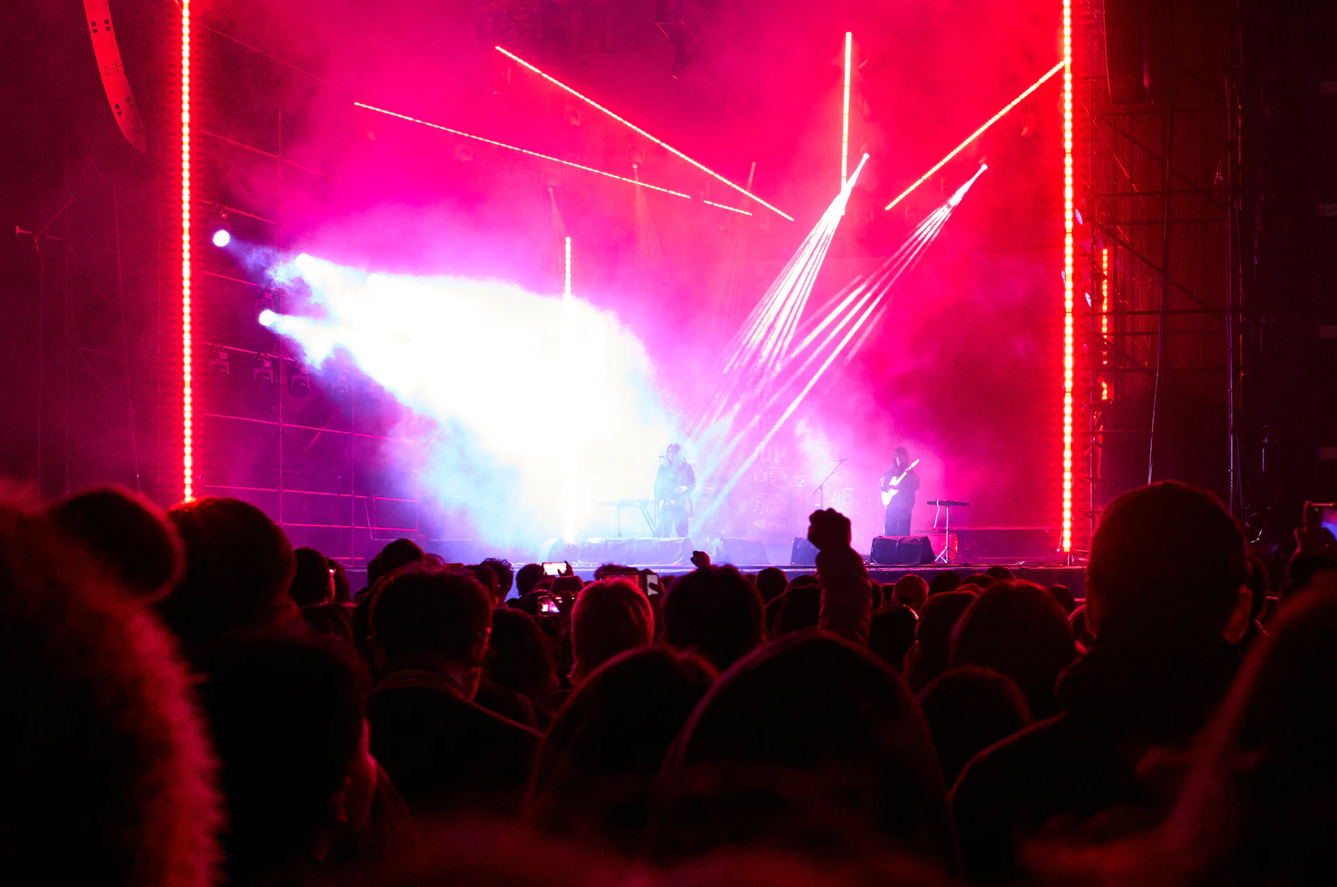
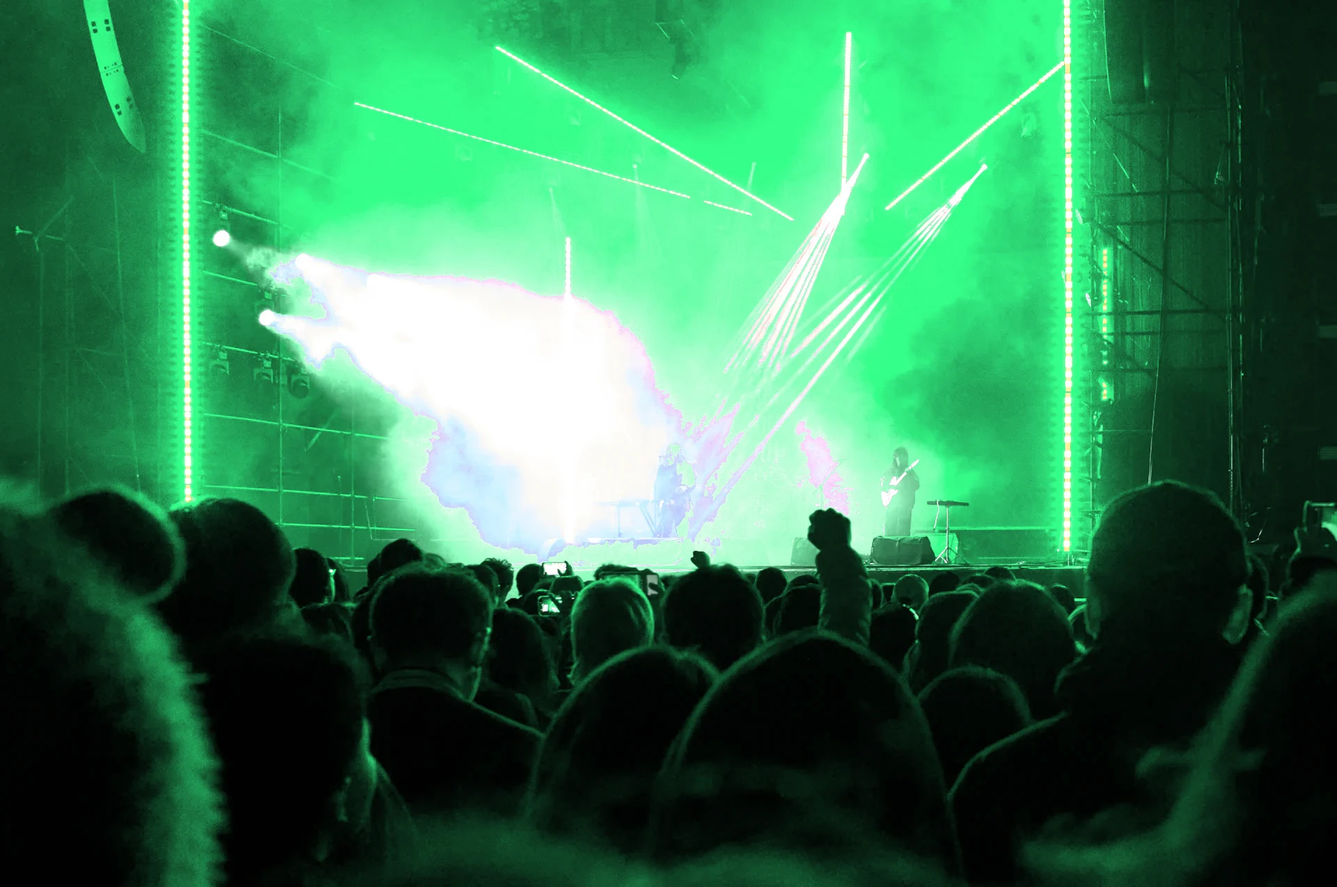
theme: recolor red/pink accents, glow and stage photo to Showstopper green (#7cffb2)

diff --git a/theme.css b/theme.css
@@ -1,4 +1,4 @@
-:root{--bg:#050307;--card:#0d0910cc;--line:#ffffff1f;--txt:#fff;--mut:#e0d4e6;--neon:#ff3b7a;--neon2:#ffb3d1;--fade:0;--rise:0px;--par:0px}
+:root{--bg:#050307;--card:#0d0910cc;--line:#ffffff1f;--txt:#fff;--mut:#e0d4e6;--neon:#7cffb2;--neon2:#c4ffdc;--fade:0;--rise:0px;--par:0px}
 html{background:#050307}body{background:transparent}
 .fv{position:fixed;inset:0;z-index:-1;overflow:hidden;background:#050307}
 .fv-photo{position:absolute;inset:-4% 0 -20%;background:url(stage.webp) center 30%/cover no-repeat;transform:translateY(var(--par)) scale(1.04);filter:saturate(1.05)}
@@ -9,29 +9,29 @@ html{background:#050307}body{background:transparent}
 .fv-crowd,.fv-dark{z-index:2}.fv-dark{z-index:3}
 .nav{background:#050307b3;backdrop-filter:blur(10px);border-color:#ffffff14}.banner{background:#0b060ecc;backdrop-filter:blur(6px)}
 .logo span{color:#7CFFB2;text-shadow:0 0 14px #2bff8a99}
-.hero{text-align:center;padding:80px 0 240px;background:radial-gradient(ellipse 45% 40% at 50% 42%,#0008,transparent 70%)}.hero h1{font-size:64px;text-shadow:0 4px 30px #000,0 0 2px #000}.hero h1 em{color:#fff;text-shadow:0 0 30px #ff3b7a,0 4px 20px #000}
+.hero{text-align:center;padding:80px 0 240px;background:radial-gradient(ellipse 45% 40% at 50% 42%,#0008,transparent 70%)}.hero h1{font-size:64px;text-shadow:0 4px 30px #000,0 0 2px #000}.hero h1 em{color:#fff;text-shadow:0 0 30px #7cffb2,0 4px 20px #000}
 .hero p{margin:0 auto;color:#fff;font-size:20px;text-shadow:0 2px 12px #000,0 0 3px #000}.search{margin:24px auto 0}.search input{background:#0b0710cc;backdrop-filter:blur(8px)}
 h1,h2{text-shadow:0 3px 14px #000}
 .card,.panel,.row{background:var(--card);backdrop-filter:blur(12px);border-color:var(--line)}
 .chip{background:#0d0910cc;backdrop-filter:blur(8px)}.mut{color:var(--mut)}
-.player{border:12px solid #0a0a0c;border-radius:6px;box-shadow:0 0 0 1px #ffffff22,0 0 90px #ff3b7a55,0 40px 60px #000}
+.player{border:12px solid #0a0a0c;border-radius:6px;box-shadow:0 0 0 1px #ffffff22,0 0 90px #7cffb255,0 40px 60px #000}
 .player+p{background:#0d0910cc;backdrop-filter:blur(8px);padding:10px 14px;border-radius:10px}
 .ahead,.t-floor-view main>h1{text-shadow:0 3px 14px #000}
-.btn{background:linear-gradient(#ff5a90,#d81e5a)}
+.btn{background:linear-gradient(#a6ffcb,#3fd98a);color:#04140a;text-shadow:none}
 footer{background:#050307;position:relative}.photo-credit a{color:var(--neon2);text-decoration:underline}
 body::before{display:none}
 @media(max-width:760px){.hero{padding:56px 0 200px}.hero h1{font-size:42px}}
 @media(prefers-reduced-motion:reduce){.fv-photo,.fv-crowd{transform:none}}
 
 .hero.mv{text-align:left;padding:48px 0 60px;background:none}
-.eyebrow{font-size:18px;font-weight:800;letter-spacing:3px;text-transform:uppercase;color:#ffb3d1;text-shadow:0 2px 10px #000;margin:0 0 14px}
+.eyebrow{font-size:18px;font-weight:800;letter-spacing:3px;text-transform:uppercase;color:#c4ffdc;text-shadow:0 2px 10px #000;margin:0 0 14px}
 .mv-card{display:grid;grid-template-columns:1.6fr 1fr;gap:28px;align-items:center}
 .mv-card .player{position:relative}.mv-card .player .thumb{aspect-ratio:16/9;max-height:none}
-.mv-badge{position:absolute;top:12px;left:12px;z-index:3;background:linear-gradient(#ff5a90,#d81e5a);color:#fff;font-weight:900;padding:8px 14px;border-radius:8px;font-size:16px;box-shadow:0 0 20px #ff3b7a99}
+.mv-badge{position:absolute;top:12px;left:12px;z-index:3;background:linear-gradient(#a6ffcb,#3fd98a);color:#04140a;font-weight:900;padding:8px 14px;border-radius:8px;font-size:16px;box-shadow:0 0 20px #7cffb299}
 .mv-info{background:#0d0910cc;backdrop-filter:blur(12px);padding:24px;border-radius:14px;border:1px solid #ffffff1f}
 .mv-info h1{font-size:44px;margin:0 0 6px}.mv-info p{margin:6px 0;font-size:17px}.mv-song{font-size:19px!important}.mv-info .btn{display:inline-block;margin-top:10px}
-.mv-card:hover .player{box-shadow:0 0 0 2px #ff3b7a,0 0 90px #ff3b7a88}
-.az{display:grid;gap:12px}.az-g{display:flex;gap:16px;align-items:center}.az-l{font-size:30px;font-weight:900;width:44px;color:#ff3b7a;text-shadow:0 0 12px #ff3b7a88}
+.mv-card:hover .player{box-shadow:0 0 0 2px #7cffb2,0 0 90px #7cffb288}
+.az{display:grid;gap:12px}.az-g{display:flex;gap:16px;align-items:center}.az-l{font-size:30px;font-weight:900;width:44px;color:#7cffb2;text-shadow:0 0 12px #7cffb288}
 .trend{color:#7dffb0;font-weight:800}
 @media(max-width:760px){.mv-card{grid-template-columns:1fr}.mv-info h1{font-size:34px}.hero.mv{padding:28px 0 32px}}
 .hero.mv .eyebrow{margin:0 0 14px;font-size:22px;text-align:left}
@@ -40,28 +40,28 @@ body::before{display:none}
 @media(max-width:760px){.mv-badge{font-size:14px;padding:5px 10px;top:8px;left:8px}.hero.mv .eyebrow{font-size:18px}}
 /* ---- social layer ---- */
 .nav nav{display:flex;align-items:center;gap:4px}#acct{display:flex;align-items:center;gap:8px;margin-left:16px}
-.btn.sm{padding:8px 14px;font-size:16px}.btn.ghost{color:#fff}
+.btn.sm{padding:8px 14px;font-size:16px}.btn.ghost{color:#fff!important;background:transparent}
 .ib{position:relative;background:#ffffff12;border:1px solid #ffffff22;border-radius:999px;width:42px;height:42px;display:inline-flex;align-items:center;justify-content:center;font-size:18px;cursor:pointer;margin:0!important;color:#fff}
-.avb{padding:0;background:none;border:0}.cnt{position:absolute;top:-6px;right:-6px;background:#ff3b7a;color:#fff;font-style:normal;font-size:13px;font-weight:800;min-width:20px;height:20px;border-radius:10px;display:flex;align-items:center;justify-content:center;padding:0 5px;box-shadow:0 0 10px #ff3b7a}
+.avb{padding:0;background:none;border:0}.cnt{position:absolute;top:-6px;right:-6px;background:#7cffb2;color:#04140a;font-style:normal;font-size:13px;font-weight:800;min-width:20px;height:20px;border-radius:10px;display:flex;align-items:center;justify-content:center;padding:0 5px;box-shadow:0 0 10px #7cffb2}
 .cnt.in{position:static;display:inline-flex}
 .av{display:inline-flex;align-items:center;justify-content:center;border-radius:50%;color:#fff;font-weight:900;flex:none;box-shadow:0 0 0 2px #ffffff30}
 .drop{position:fixed;top:66px;right:20px;width:340px;max-width:calc(100vw - 24px);max-height:70vh;overflow:auto;z-index:50;background:#120c16f2;backdrop-filter:blur(14px);border:1px solid #ffffff26;border-radius:14px;padding:14px;box-shadow:0 20px 50px #000}
 .drop h3{margin:0 0 8px}.ni{display:block;width:100%;text-align:left;padding:10px 12px;border-radius:10px;color:#fff;background:none;border:0;font-size:16px;cursor:pointer}.ni:hover{background:#ffffff12}.ni span{display:block;font-size:15px}
-.ni.unread{background:#ff3b7a1f;border-left:3px solid #ff3b7a}.dm{display:flex;gap:12px;align-items:center;padding:6px 6px 12px;border-bottom:1px solid #ffffff1a;margin-bottom:6px}
+.ni.unread{background:#7cffb21f;border-left:3px solid #7cffb2}.dm{display:flex;gap:12px;align-items:center;padding:6px 6px 12px;border-bottom:1px solid #ffffff1a;margin-bottom:6px}
 .modal{position:fixed;inset:0;z-index:60;background:#000b;backdrop-filter:blur(4px);display:flex;align-items:center;justify-content:center;padding:16px}
-.mbox{position:relative;width:440px;max-width:100%;max-height:90vh;overflow:auto;background:#130c17;border:1px solid #ff3b7a55;border-radius:16px;padding:26px;box-shadow:0 0 60px #ff3b7a33}
+.mbox{position:relative;width:440px;max-width:100%;max-height:90vh;overflow:auto;background:#130c17;border:1px solid #7cffb255;border-radius:16px;padding:26px;box-shadow:0 0 60px #7cffb233}
 .mbox h2{margin:0 0 10px}.mx{position:absolute;top:10px;right:14px;background:none;border:0;color:#fff;font-size:28px;cursor:pointer}
 .mbox label{display:block;margin:10px 0;font-weight:700}.mbox label input{display:block;width:100%;margin-top:6px;border-radius:10px}.mbox .btn{margin-top:8px}
 .demo-note{background:#ffb84d1f;border:1px solid #ffb84d55;color:#ffe1ad;padding:10px 12px;border-radius:10px;font-size:16px}.err{color:#ff8fa8;min-height:1em;margin:4px 0}
 .mrow{display:flex;gap:8px;align-items:center;flex-wrap:wrap;margin:10px 0}.mrow input{flex:1;min-width:160px;border-radius:10px}
-.lrow{display:flex!important;gap:10px;align-items:center;font-weight:600!important;padding:8px 10px;border-radius:10px;background:#ffffff0a}.lrow input{width:20px;height:20px;accent-color:#ff3b7a}
-.savebtn{position:absolute;top:8px;right:8px;z-index:4;background:#0a060ddd;color:#fff;border:1px solid #ffffff40;border-radius:999px;padding:6px 12px;font-weight:800;font-size:15px;cursor:pointer}.savebtn:hover{background:#ff3b7a}
+.lrow{display:flex!important;gap:10px;align-items:center;font-weight:600!important;padding:8px 10px;border-radius:10px;background:#ffffff0a}.lrow input{width:20px;height:20px;accent-color:#7cffb2}
+.savebtn{position:absolute;top:8px;right:8px;z-index:4;background:#0a060ddd;color:#fff;border:1px solid #ffffff40;border-radius:999px;padding:6px 12px;font-weight:800;font-size:15px;cursor:pointer}.savebtn:hover{background:#7cffb2;color:#04140a}
 .player .savebtn{top:14px;right:14px;font-size:16px;padding:8px 14px}
-.toast{position:fixed;bottom:24px;left:50%;transform:translateX(-50%);z-index:70;background:#1a0f1f;border:1px solid #ff3b7a;padding:12px 18px;border-radius:12px;box-shadow:0 10px 30px #000}
+.toast{position:fixed;bottom:24px;left:50%;transform:translateX(-50%);z-index:70;background:#1a0f1f;border:1px solid #7cffb2;padding:12px 18px;border-radius:12px;box-shadow:0 10px 30px #000}
 .comments{margin-top:32px}.cform{display:flex;gap:10px;align-items:flex-start;margin-bottom:14px}.cform textarea,#bf textarea{flex:1;width:100%;min-height:52px;background:#0d0910cc;border:1px solid #ffffff26;color:#fff;border-radius:12px;padding:12px;font:inherit}
 .clist{display:grid;gap:12px}.cm{display:flex;gap:12px;padding:14px;background:#0d0910cc;backdrop-filter:blur(10px);border:1px solid #ffffff1a;border-radius:14px}
-.cm .cm{margin-top:12px;background:#ffffff08;border-left:3px solid #ff3b7a66}.cb{flex:1;min-width:0}.cb p{margin:4px 0 6px}
-.ca button{background:none;border:0;color:#e0d4e6;font-size:15px;font-weight:700;cursor:pointer;margin-right:14px;padding:4px 0}.ca button.on{color:#ff3b7a}.ca button:hover{color:#fff}
+.cm .cm{margin-top:12px;background:#ffffff08;border-left:3px solid #7cffb266}.cb{flex:1;min-width:0}.cb p{margin:4px 0 6px}
+.ca button{background:none;border:0;color:#e0d4e6;font-size:15px;font-weight:700;cursor:pointer;margin-right:14px;padding:4px 0}.ca button.on{color:#7cffb2}.ca button:hover{color:#fff}
 .ad{display:flex;align-items:center;gap:18px;margin:22px 0;padding:18px 20px;border-radius:14px;background:linear-gradient(100deg,#2a1a08ee,#1a0d18ee);border:1px dashed #ffb84d88;position:relative}
 .ad p{margin:4px 0 0;color:#f2e2cf}.ad b{font-size:19px}.ad>div{flex:1}.ad .btn{background:linear-gradient(#ffc04d,#e8871a);color:#1b0f02;white-space:nowrap}
 .spons{position:absolute;top:-11px;left:16px;background:#ffb84d;color:#1b0f02;font-size:13px;font-weight:900;letter-spacing:1px;text-transform:uppercase;padding:2px 8px;border-radius:6px}
@@ -71,9 +71,9 @@ body::before{display:none}
 .lc{display:flex;flex-direction:column;gap:8px;margin-top:10px}.mini{display:flex;gap:10px;align-items:center}.mini span{width:56px;height:32px;border-radius:6px;flex:none}.mini small{margin-left:auto;font-size:15px}
 .bio{max-width:640px;margin:6px 0 8px}#msgb{margin-top:8px}
 .inbox{display:grid;grid-template-columns:320px 1fr;gap:16px;min-height:480px}.convs{display:flex;flex-direction:column;gap:8px}
-.conv{display:flex;gap:12px;align-items:center;padding:12px;border-radius:12px;background:#0d0910cc;border:1px solid #ffffff1a}.conv.on{border-color:#ff3b7a}.conv div>span{display:block;font-size:15px}
+.conv{display:flex;gap:12px;align-items:center;padding:12px;border-radius:12px;background:#0d0910cc;border:1px solid #ffffff1a}.conv.on{border-color:#7cffb2}.conv div>span{display:block;font-size:15px}
 .thread{display:flex;flex-direction:column}.th{display:flex;gap:10px;align-items:center;padding-bottom:10px;border-bottom:1px solid #ffffff1a}
-.msgs{flex:1;overflow:auto;display:flex;flex-direction:column;gap:10px;padding:14px 0;max-height:420px}.bub{max-width:75%;background:#ffffff14;padding:10px 14px;border-radius:14px 14px 14px 4px}.bub.me{align-self:flex-end;background:#ff3b7a;border-radius:14px 14px 4px 14px}.bub small{display:block;opacity:.75;font-size:13px;margin-top:4px}
+.msgs{flex:1;overflow:auto;display:flex;flex-direction:column;gap:10px;padding:14px 0;max-height:420px}.bub{max-width:75%;background:#ffffff14;padding:10px 14px;border-radius:14px 14px 14px 4px}.bub.me{align-self:flex-end;background:#7cffb2;color:#04140a;border-radius:14px 14px 4px 14px}.bub small{display:block;opacity:.75;font-size:13px;margin-top:4px}
 @media(max-width:760px){.nav{flex-wrap:wrap;gap:8px}.nav nav a{margin-left:12px}#acct{margin-left:8px}.stats{grid-template-columns:1fr 1fr}.two2,.inbox{grid-template-columns:1fr}.ad{flex-direction:column;align-items:flex-start}.lists2{grid-template-columns:1fr}.drop{right:12px}}
 .ahead>div:last-child{background:#0d0910cc;backdrop-filter:blur(12px);border:1px solid #ffffff1f;border-radius:16px;padding:18px 22px}
 .ahead .mut{color:#eee2f2}.panel h2{margin-top:0}.analytics{margin-top:0}
@@ -81,16 +81,16 @@ body::before{display:none}
 
 .embed-wrap{position:relative;aspect-ratio:16/9;width:100%;background:#000}.embed-wrap iframe{position:absolute;inset:0;width:100%;height:100%;border:0}
 .embed-wrap .badge.best{z-index:3;pointer-events:none}.player.live .savebtn{top:auto;bottom:14px}
-.srcl{color:#ffb3d1;text-decoration:underline;font-weight:700}.card .thumb{background-size:cover}
+.srcl{color:#c4ffdc;text-decoration:underline;font-weight:700}.card .thumb{background-size:cover}
 .clipbar{padding-right:110px!important;line-height:1.9}.badge.best.inl{position:static;display:inline-block;margin:0 6px 0 0;color:#fff}.clipbar .savebtn{top:50%;transform:translateY(-50%)}
 .vbreak{font-size:16px!important;color:#e0d4e6}.tv{border-bottom:1px dotted #ffffff80;cursor:help}
 /* ads v2 */
 .ad .btn{text-decoration:none}.ad-img{width:96px;height:72px;object-fit:cover;border-radius:10px;flex:none}.ad.compact{padding:12px 16px;margin:16px 0}.ad.compact b{font-size:17px}
 .ad.house{background:linear-gradient(100deg,#1d1208ee,#150b14ee)}.ad-show-tickets{margin-top:14px}
 .adv-hero{margin:28px 0 10px;padding:28px 30px;background:#0d0910d9;backdrop-filter:blur(12px);border:1px solid #ffffff1f;border-radius:18px}.adv-hero h1{font-size:52px;margin:0 0 10px}.lead{font-size:21px;max-width:860px}.small{font-size:15px}
-.adv-stats{display:grid;grid-template-columns:repeat(4,1fr);gap:12px;margin:22px 0 10px}.adv-stats div{background:#0d0910cc;border:1px solid #ffffff1f;border-radius:14px;padding:16px}.adv-stats b{display:block;font-size:30px;color:#ffb3d1}
+.adv-stats{display:grid;grid-template-columns:repeat(4,1fr);gap:12px;margin:22px 0 10px}.adv-stats div{background:#0d0910cc;border:1px solid #ffffff1f;border-radius:14px;padding:16px}.adv-stats b{display:block;font-size:30px;color:#c4ffdc}
 .slot-gal{display:grid;grid-template-columns:repeat(2,1fr);gap:18px}.slotc h3{margin:12px 0 4px}.slotc p{margin:4px 0}.price{color:#ffd28a;font-size:18px}
-.mock{background:#08050b;border:1px solid #ffffff1a;border-radius:12px;padding:12px;display:grid;gap:8px}.mk-bar{height:10px;width:40%;background:#ffffff22;border-radius:6px}.mk-player{height:90px;background:linear-gradient(135deg,#3a0f22,#0a0a0c);border-radius:8px}
+.mock{background:#08050b;border:1px solid #ffffff1a;border-radius:12px;padding:12px;display:grid;gap:8px}.mk-bar{height:10px;width:40%;background:#ffffff22;border-radius:6px}.mk-player{height:90px;background:linear-gradient(135deg,#0f3a24,#0a0a0c);border-radius:8px}
 .mk-chips{height:26px;background:repeating-linear-gradient(90deg,#ffffff1a 0 60px,transparent 60px 70px);border-radius:8px}.mk-grid{height:46px;background:repeating-linear-gradient(90deg,#ffffff12 0 23%,transparent 23% 25.6%);border-radius:8px}
 .mk-ad .ad{margin:10px 0 4px;transform-origin:left top}.mk-ad .ad b{font-size:16px}.mk-ad .ad p{font-size:14px}
 .rate{width:100%;border-collapse:collapse}.rate th,.rate td{text-align:left;padding:10px;border-bottom:1px solid #ffffff1a;vertical-align:top}.rate td:nth-child(2){white-space:nowrap;color:#ffd28a;font-weight:800}
@@ -104,7 +104,7 @@ body::before{display:none}
 .aav.big{width:120px!important;height:120px!important;font-size:52px!important}
 .achip{display:inline-flex;align-items:center;gap:8px;padding-left:5px}
 .alist{display:grid;grid-template-columns:repeat(auto-fill,minmax(320px,1fr));gap:12px;margin:16px 0}
-.arow{display:flex;gap:14px;align-items:center;padding:12px 14px;border-radius:14px;background:#0d0910cc;backdrop-filter:blur(10px);border:1px solid #ffffff1a}.arow:hover{border-color:#ff3b7a}.arow>div{flex:1;min-width:0}.arow span.mut{display:block;font-size:15px}
+.arow{display:flex;gap:14px;align-items:center;padding:12px 14px;border-radius:14px;background:#0d0910cc;backdrop-filter:blur(10px);border:1px solid #ffffff1a}.arow:hover{border-color:#7cffb2}.arow>div{flex:1;min-width:0}.arow span.mut{display:block;font-size:15px}
 .asearch input{width:100%;max-width:560px}.more{display:block;margin:10px auto 26px}
 .navsearch{display:inline-block;margin-right:14px}.navsearch input{width:190px;padding:8px 14px;border-radius:999px;background:#ffffff12;border:1px solid #ffffff26;color:#fff;font:inherit;font-size:15px}
 .tip{cursor:help;font-weight:400;letter-spacing:0;opacity:.85}.credit a{text-decoration:underline}

diff --git a/app.js b/app.js
@@ -2,7 +2,8 @@ const $=s=>document.querySelector(s),app=$("#app");
 const fmt=d=>d.toLocaleDateString("en-US",{month:"short",day:"numeric",year:"numeric"});
 const iso=d=>d.toISOString().slice(0,10);
 const follows=new Set(JSON.parse(localStorage.getItem("ssf")||"[]"));
-const grad=h=>`background:linear-gradient(135deg,hsl(${h} 90% 45%),hsl(${(h+60)%360} 80% 20%) 60%,#05050a),radial-gradient(circle at 70% 20%,#fff4,transparent 40%)`;
+const nh=h=>(h>=290||h<=20)?145:h; // red/pink hues -> Showstopper green
+const grad=h=>(h=nh(h),0)||`background:linear-gradient(135deg,hsl(${h} 90% 45%),hsl(${(h+60)%360} 80% 20%) 60%,#05050a),radial-gradient(circle at 70% 20%,#fff4,transparent 40%)`;
 const thumb=(c,best)=>`<div class="thumb" style="${c.thumb?`background:#000 url(${c.thumb}) center/cover`:grad(c.hue)}"><div class="play"></div>${best?'<span class="badge best">★ Best clip</span>':''}<span class="badge">${c.len}</span></div>`;
 const creditFull=c=>`<span class="src">via ${c.platform}</span> <span class="mut">by ${c.uploader_url?`<a href="${c.uploader_url}" target="_blank" rel="noopener" style="text-decoration:underline">${esc0(c.uploader)}</a>`:esc0(c.uploader)}</span>${c.url?` · <a class="srcl" href="${c.url}" target="_blank" rel="noopener">Watch on ${c.platform} ↗</a>`:""}`;
 const credit=c=>`<span class="src">via ${c.platform}</span> <span class="mut">by ${esc0(c.uploader)}</span>`;
@@ -14,8 +15,8 @@ const nviews=c=>`<span class="tv" data-tv="${c.id}" title="${viewsTip(c)}">${tot
 const trendOf=c=>Math.round(totalViews(c)/Math.max(c.age_days||1,1));
 const embed=(c,best)=>c.embed?`<div class="embed-wrap">${best?'<span class="badge best">★ Best clip</span>':''}<iframe src="${c.embed}${c.platform=="YouTube"?"?rel=0&modestbranding=1":""}" title="${esc0(c.song)} — ${c.platform} embed" loading="lazy" allow="accelerometer; encrypted-media; gyroscope; picture-in-picture; fullscreen" referrerpolicy="strict-origin-when-cross-origin" allowfullscreen></iframe></div>`:thumb(c,best);
 const showCard=s=>`<a class="card" href="#/show/${s.id}">${thumb(s.best,1)}<div class="meta"><b>${s.artist.name}</b><span class="mut">${[s.venue,s.city].filter(Boolean).join(" · ")}</span><br><span class="mut">${fmt(s.date)}</span> · ${credit(s.best)}</div></a>`;
-const artistAvatar=(a,size=28)=>a.thumb?`<img class="aav" src="${esc0(a.thumb)}" alt="" referrerpolicy="no-referrer" width="${size}" height="${size}" loading="lazy" style="width:${size}px;height:${size}px" onerror="this.replaceWith(Object.assign(document.createElement('span'),{className:'aav ini',style:'width:${size}px;height:${size}px;font-size:${Math.round(size*.45)}px;background:hsl(${a.hue} 70% 40%)',textContent:'${esc0(a.name[0])}'}))">`:`<span class="aav ini" style="width:${size}px;height:${size}px;font-size:${Math.round(size*.45)}px;background:linear-gradient(135deg,hsl(${a.hue} 80% 50%),hsl(${(a.hue+60)%360} 70% 25%))">${esc0(a.name.replace(/^The /,"")[0])}</span>`;
-const artistChip=a=>`<a class="chip achip" href="#/artist/${a.id}" style="border-color:hsl(${a.hue} 80% 55%)">${artistAvatar(a,26)}${esc0(a.name)}</a>`;
+const artistAvatar=(a,size=28)=>a.thumb?`<img class="aav" src="${esc0(a.thumb)}" alt="" referrerpolicy="no-referrer" width="${size}" height="${size}" loading="lazy" style="width:${size}px;height:${size}px" onerror="this.replaceWith(Object.assign(document.createElement('span'),{className:'aav ini',style:'width:${size}px;height:${size}px;font-size:${Math.round(size*.45)}px;background:hsl(${nh(a.hue)} 70% 40%)',textContent:'${esc0(a.name[0])}'}))">`:`<span class="aav ini" style="width:${size}px;height:${size}px;font-size:${Math.round(size*.45)}px;background:linear-gradient(135deg,hsl(${nh(a.hue)} 80% 50%),hsl(${(nh(a.hue)+60)%360} 70% 25%))">${esc0(a.name.replace(/^The /,"")[0])}</span>`;
+const artistChip=a=>`<a class="chip achip" href="#/artist/${a.id}" style="border-color:hsl(${nh(a.hue)} 80% 55%)">${artistAvatar(a,26)}${esc0(a.name)}</a>`;
 const HAS30=typeof HIST_DAYS!="undefined"&&HIST_DAYS>=28;
 const site30=c=>{const r=window.SSB&&SSB.remoteTotals&&SSB.remoteTotals[c.id];return r&&r.site_30d!=null?Number(r.site_30d):0};
 const gain30=c=>(c.views_30d||0)+site30(c);

diff --git a/styles.css b/styles.css
@@ -1,5 +1,5 @@
-:root{--bg:#07070c;--card:#12121c;--line:#24243a;--txt:#ecebf5;--mut:#a3a2b8;--neon:#ff2bd6;--neon2:#22e6ff}
-*{box-sizing:border-box}html{background:#07070c}body{min-height:100vh;margin:0;background:radial-gradient(1200px 500px at 50% -200px,#2a0b3d,transparent),var(--bg);color:var(--txt);font:16px/1.55 system-ui,-apple-system,Segoe UI,Roboto,sans-serif}
+:root{--bg:#07070c;--card:#12121c;--line:#24243a;--txt:#ecebf5;--mut:#a3a2b8;--neon:#7cffb2;--neon2:#22e6ff}
+*{box-sizing:border-box}html{background:#07070c}body{min-height:100vh;margin:0;background:radial-gradient(1200px 500px at 50% -200px,#0b3d22,transparent),var(--bg);color:var(--txt);font:16px/1.55 system-ui,-apple-system,Segoe UI,Roboto,sans-serif}
 a{color:inherit;text-decoration:none}
 .nav{display:flex;justify-content:space-between;align-items:center;padding:16px 32px;border-bottom:1px solid var(--line);position:sticky;top:0;background:#07070ccc;backdrop-filter:blur(8px);z-index:5}
 .logo{font-weight:900;font-size:24px;letter-spacing:2px}.logo span{color:var(--neon);text-shadow:0 0 12px var(--neon)}
@@ -13,7 +13,7 @@ h1{font-size:56px;line-height:1.05;margin:0 0 12px;font-weight:900}h2{font-size:
 .search{display:flex;gap:8px;margin-top:20px;max-width:640px}
 input,select{background:var(--card);border:1px solid var(--line);color:var(--txt);padding:12px 14px;border-radius:10px;font-size:16px}
 .search input{flex:1}
-.btn{background:var(--neon);color:#fff;border:0;padding:12px 20px;border-radius:10px;font-weight:800;font-size:16px;cursor:pointer;box-shadow:0 0 18px #ff2bd666}
+.btn{background:var(--neon);color:#04140a;border:0;padding:12px 20px;border-radius:10px;font-weight:800;font-size:16px;cursor:pointer;box-shadow:0 0 18px #7cffb266}
 .btn.ghost{background:transparent;border:1px solid var(--neon);box-shadow:none}
 .grid{display:grid;grid-template-columns:repeat(auto-fill,minmax(260px,1fr));gap:20px}
 .card{background:var(--card);border:1px solid var(--line);border-radius:14px;overflow:hidden;transition:.2s;display:block}
@@ -28,12 +28,12 @@ input,select{background:var(--card);border:1px solid var(--line);color:var(--txt
 .src{display:inline-block;font-size:13px;font-weight:700;padding:2px 8px;border-radius:6px;border:1px solid var(--neon2);color:var(--neon2)}
 .chips{display:flex;flex-wrap:wrap;gap:10px}.chip{padding:10px 16px;border-radius:999px;background:var(--card);border:1px solid var(--line);font-weight:700}
 .chip:hover{border-color:var(--neon2)}
-.ahead{display:flex;gap:24px;align-items:center;padding:32px 0}.avatar{width:140px;height:140px;border-radius:50%;flex:none;box-shadow:0 0 30px #ff2bd655}
+.ahead{display:flex;gap:24px;align-items:center;padding:32px 0}.avatar{width:140px;height:140px;border-radius:50%;flex:none;box-shadow:0 0 30px #7cffb255}
 .ahead h1{font-size:48px}
 .filters{display:flex;flex-wrap:wrap;gap:10px;margin:8px 0 16px}
 .row{display:flex;justify-content:space-between;align-items:center;gap:12px;padding:16px;border:1px solid var(--line);border-radius:12px;background:var(--card);margin-bottom:10px}
 .row:hover{border-color:var(--neon)}
-.player{border-radius:16px;overflow:hidden;border:1px solid var(--neon);box-shadow:0 0 40px #ff2bd633}
+.player{border-radius:16px;overflow:hidden;border:1px solid var(--neon);box-shadow:0 0 40px #7cffb233}
 .player .thumb{aspect-ratio:21/9;max-height:420px;width:100%}.player .play{width:84px;height:84px}.player .play::before{left:32px;top:24px;border-left-width:26px;border-top-width:16px;border-bottom-width:16px}
 .two{display:grid;grid-template-columns:2fr 1fr;gap:24px;margin-top:20px}
 .panel{background:var(--card);border:1px solid var(--line);border-radius:14px;padding:18px}

diff --git a/social.js b/social.js
@@ -85,9 +85,9 @@ function profile(h){const u=S.users[h];if(!u){app.innerHTML='<p class="empty">Me
   const mx=Math.max(...days,1),W=600,H=160,pts=days.map((v,i)=>`${(i/29*W).toFixed(1)},${(H-10-v/mx*(H-30)).toFixed(1)}`).join(" ");
   an=!log.length?`<section class="panel analytics empty-an"><h2>Your analytics <span class="mut" style="font-size:15px;font-weight:400">· only you can see this</span></h2><p>Nothing here yet. Press play on any show and your watch time, top artists and top genres will show up here.</p><a class="btn sm" href="#/">Find a show to watch →</a></section>`:`<section class="panel analytics"><h2>Your analytics <span class="mut" style="font-size:15px;font-weight:400">· only you can see this</span></h2>
   <div class="stats"><div><b>${log.length}</b><span>clips watched</span></div><div><b>${Math.floor(secs/3600)}h ${Math.round(secs%3600/60)}m</b><span>watch time</span></div><div><b>${top(cnt)[0]?.[0]||"—"}</b><span>top artist</span></div><div><b>${top(gen)[0]?.[0]||"—"}</b><span>top genre</span></div></div>
-  <div class="two2"><div><h3>Views, last 30 days</h3><svg viewBox="0 0 ${W} ${H}" class="chart" role="img" aria-label="Views per day over the last 30 days"><defs><linearGradient id="cg" x1="0" x2="0" y1="0" y2="1"><stop offset="0" stop-color="#ff3b7a" stop-opacity=".55"/><stop offset="1" stop-color="#ff3b7a" stop-opacity="0"/></linearGradient></defs>
+  <div class="two2"><div><h3>Views, last 30 days</h3><svg viewBox="0 0 ${W} ${H}" class="chart" role="img" aria-label="Views per day over the last 30 days"><defs><linearGradient id="cg" x1="0" x2="0" y1="0" y2="1"><stop offset="0" stop-color="#7cffb2" stop-opacity=".55"/><stop offset="1" stop-color="#7cffb2" stop-opacity="0"/></linearGradient></defs>
   ${[0,.5,1].map(f=>`<line x1="0" x2="${W}" y1="${H-10-f*(H-30)}" y2="${H-10-f*(H-30)}" stroke="#ffffff1a"/><text x="4" y="${H-14-f*(H-30)}" fill="#cbb" font-size="13">${Math.round(f*mx)}</text>`).join("")}
-  <polygon points="0,${H-10} ${pts} ${W},${H-10}" fill="url(#cg)"/><polyline points="${pts}" fill="none" stroke="#ff3b7a" stroke-width="3"/></svg><div class="axis mut"><span>30 days ago</span><span>Today</span></div></div>
+  <polygon points="0,${H-10} ${pts} ${W},${H-10}" fill="url(#cg)"/><polyline points="${pts}" fill="none" stroke="#7cffb2" stroke-width="3"/></svg><div class="axis mut"><span>30 days ago</span><span>Today</span></div></div>
   <div><h3>Top artists</h3><ol>${top(cnt).map(([n,v])=>`<li>${n} <span class="mut">${v} plays</span></li>`).join("")}</ol><h3>Top genres</h3><ol>${top(gen).map(([n,v])=>`<li>${n} <span class="mut">${v}</span></li>`).join("")}</ol></div></div></section>`}
  app.innerHTML=`<div class="ahead">${avatar(u,120)}<div><span class="mut">@${u.handle} · free member</span><h1>${esc(u.name)}</h1>
  <div id="bio"><p class="bio">${u.bio?esc(u.bio):'<span class="mut">No bio yet.</span>'}</p>${own?'<button class="btn ghost sm" id="eb">Edit bio</button>':""}</div>
